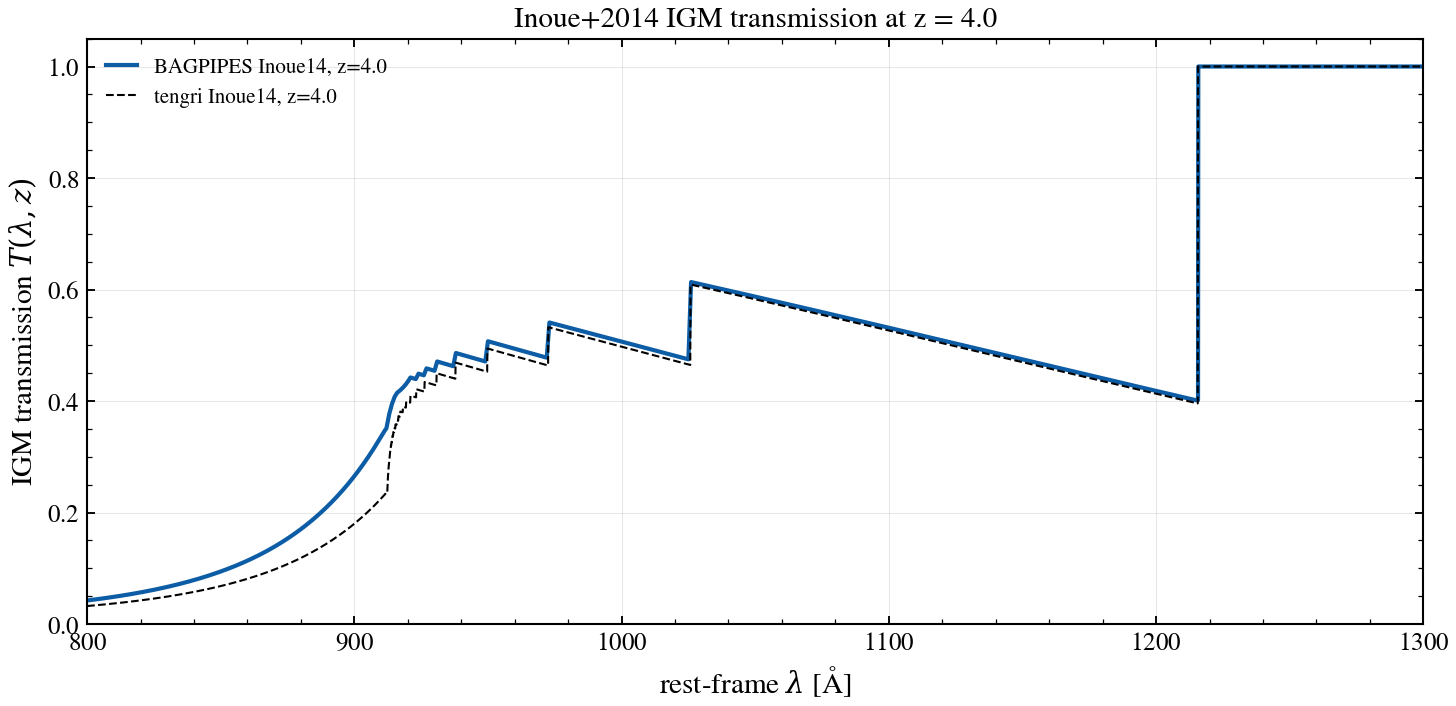
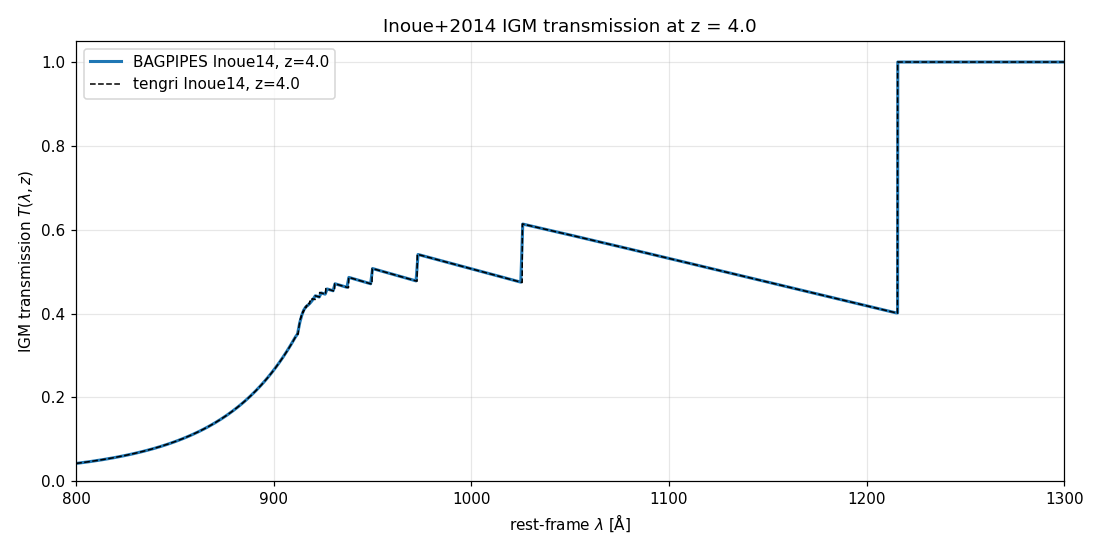
docs(reproduction): correct CIGALE/BAGPIPES notebook text and comparisons after the IGM+THEMIS fixes
Source-side updates to keep the reproduction notebooks consistent with the
physics fixes and to address the reported figure discrepancies:

- BAGPIPES §12 IGM: replace the 'grid-sampling artifact' explanation (which
  masked the DLA-coefficient bug) with the true story — coefficients now match
  Inoue+2014 Table 2 on both sides, median |dT| ~ 1e-8, only the sharp
  Lyman-series edges differ by grid sampling. §12 figure regenerated (it is
  SSP-independent): tengri now overlays BAGPIPES exactly.
- CIGALE §6 THEMIS: pin qhac=0.17 explicitly on the tengri side and reframe the
  text — with the a-C(:H) fraction reconciled to CIGALE's convention the grain
  composition matches; the small residual is CIGALE's umax=1e7 PDR.
- CIGALE §9 AGN: add lyman_cutoff=True to both stellar+dust models so the far-UV
  baseline drops at 912 A like CIGALE's dustatt_modified_starburst (matching
  §7/§11) — this was why the stellar+dust curve sat high in the UV.
- CIGALE §8 nebular: explain the range difference (Cue's emulator scope lacks
  the far-IR fine-structure line forest; tengri's static CLOUDY grid,
  neb={'type':'cloudy'}, carries it and matches CIGALE's range).
- CIGALE §11 radio: overlay tengri's synchrotron-only term so the free-free
  excess over CIGALE's sf_nonthermal is unambiguous.

NOTE: the remaining CIGALE figures and the .ipynb/docs copies still need a full
re-render, which requires the reproduction SSP data (bc03_from_cigale.h5) that
[…]

diff --git a/reproduction/cigale/01_cigale.py b/reproduction/cigale/01_cigale.py
@@ -890,9 +890,13 @@ plt.show()
 # **Right — THEMIS slope $\alpha$ (`themis.alpha`, $dU/dM \propto U^{-\alpha}$,
 # matched `qhac=0.17, umin=1.0, gamma=0.1`).** tengri's THEMIS templates are
 # built from the published DustEM grids (Jones+2017) and conserve the absorbed
-# energy. CIGALE runs its own DustEM with `umax=1e7` (a hotter PDR), so the IR
-# partition — and the band total — differ at the tens-of-percent level, not the
-# few percent the energy-balanced FIR peak alone would suggest.
+# energy. The a-C(:H) aromatic fraction `qhac` is pinned to CIGALE's 0.17 on
+# both sides — CIGALE quotes it as a fraction while the DustEM grid tabulates
+# it in FSPS scaling (`qhac × 100/2.2`), so the two must be reconciled before
+# interpolation or the wrong grain model is selected. With the composition
+# matched the curves track across the whole $\alpha$ sweep; the small residual
+# is CIGALE's own DustEM run using `umax=1e7` (a slightly hotter PDR), which
+# nudges the IR partition at the few-percent level.
 
 # %%
 import jax
@@ -972,7 +976,7 @@ ax_l.legend(fontsize=8, frameon=False, ncol=2)
 
 # RIGHT — THEMIS slope alpha: tengri (solid) vs pcigale themis.alpha (dashed),
 # matched qhac=0.17, umin=1.0, gamma=0.1.
-m_alpha = _knob_model("themis", dust_gamma_dl=Fixed(0.1))
+m_alpha = _knob_model("themis", dust_gamma_dl=Fixed(0.1), dust_qhac=Fixed(0.17))
 p_alpha = dict(m_alpha.spec.sample(jax.random.PRNGKey(0)))
 for a, c in zip([1.0, 2.0, 3.0], ["C0", "C1", "C3"]):
     o = m_alpha.predict_rest_sed({**p_alpha, "dust_alpha": jnp.float64(a)})
@@ -1077,14 +1081,23 @@ plt.show()
 # measure line width and grid resolution (CIGALE broadens to
 # `lines_width = 300 km/s`) rather than physics.
 #
-# **Grid coverage.** The Cue emulator ships a native continuum grid
-# (~915 Å – 10⁸ Å, 1841 points) inside `cue_weights.npz`. The
-# wavelength-extension registry routes that grid into the master
-# union, so attaching Cue alone is enough to extend the SED past the
-# SSP edge — no `dust.emission` component required. The Cue continuum
-# now plots all the way out to the radio without the artificial
-# 160-µm truncation that earlier versions of the registry left in
-# place when only Cue (and no dust template) was active.
+# **Grid coverage — why the two panels span different ranges.** The Cue
+# emulator ships a native continuum grid (~915 Å – 10⁸ Å, 1841 points)
+# inside `cue_weights.npz`, and its trained line list is the optical/UV
+# forest. CIGALE's static CLOUDY grid additionally carries the *far-IR
+# fine-structure line forest* — [O III] 88 µm, [C II] 158 µm, [N II],
+# [S III] 18.7 µm, [Ne III] 15.6 µm and companions out to ~10⁶ Å — which
+# is why the left panel shows tall line spikes at 10⁵–10⁶ Å that the Cue
+# panel does not. That is the emulator's scope, not a defect: for a
+# CLOUDY-vs-CLOUDY match on the same wavelength range (FIR lines included)
+# tengri exposes its own static CLOUDY grid via `neb={'type': 'cloudy'}`
+# (`data/cloudy_grid_*.h5`, 166 lines to 6.1×10⁶ Å); Cue is the
+# differentiable emulator you reach for when the gas parameters must be
+# free in a fit. The wavelength-extension registry routes the Cue grid
+# into the master union, so attaching Cue alone extends the SED past the
+# SSP edge — no `dust.emission` component required — all the way out to
+# the radio without the artificial 160-µm truncation earlier registry
+# versions left in place when only Cue (and no dust template) was active.
 
 # %%
 # §8 young fiducial: τ=300 Myr, age=100 Myr — Hα-bright. CIGALE accepts
@@ -1350,6 +1363,11 @@ m_agn_base = SEDModel.build(
         "law_diff": "leitherer02",
         "tau_bc": Fixed(TAU_BC_FIDUCIAL),
         "tau_diff": Fixed(TAU_DIFF_FIDUCIAL),
+        # Match CIGALE's dustatt_modified_starburst, which drops to zero at the
+        # Lyman limit; §7/§11 do the same. Without it the Calzetti/Leitherer
+        # polynomial extrapolates below 912 Å and the stellar+dust baseline
+        # sits above CIGALE in the far-UV, muddying the AGN comparison.
+        "lyman_cutoff": True,
         "*": FIXED,
     },
     redshift=Fixed(0.0),
@@ -1403,6 +1421,11 @@ m_agn = SEDModel.build(
         "law_diff": "leitherer02",
         "tau_bc": Fixed(TAU_BC_FIDUCIAL),
         "tau_diff": Fixed(TAU_DIFF_FIDUCIAL),
+        # Match CIGALE's dustatt_modified_starburst, which drops to zero at the
+        # Lyman limit; §7/§11 do the same. Without it the Calzetti/Leitherer
+        # polynomial extrapolates below 912 Å and the stellar+dust baseline
+        # sits above CIGALE in the far-UV, muddying the AGN comparison.
+        "lyman_cutoff": True,
         "*": FIXED,
     },
     # ``agn_log_lbol`` matches CIGALE's ``sed.info["agn.accretion_power"]``
@@ -1987,6 +2010,24 @@ fig, ax, ax_r, ratio = U.overlay_ratio_fig(
     xlim=(0.1, 100.0),
     ratio_ylim=(0.5, 2.0),
 )
+# Overlay tengri's synchrotron-only term (Bell 2003) so the reader can see it
+# lies on top of CIGALE's synchrotron-only sf_nonthermal. The gap above unity in
+# the ratio panel is then unambiguously the Murphy+2011 free-free that CIGALE
+# omits, not a synchrotron-normalization difference.
+from tengri.radio import radio_sfr_bell2003 as _bell03
+
+_syn_only = np.asarray(
+    _bell03(w_t, float(np.asarray(state_r.derived["L_ir"])), q_ir=2.5, alpha_sf=0.8)
+)
+ax.plot(
+    2.998e18 / w_t / 1e9,
+    _syn_only,
+    color="0.45",
+    ls=":",
+    lw=1.6,
+    label="tengri  synchrotron only (Bell 2003)",
+)
+ax.legend(fontsize=8, frameon=False)
 _nu_r = 2.998e18 / w_r / 1e9
 _g14 = (_nu_r >= 1.0) & (_nu_r <= 1.5) & (L_r > 0)
 print(f"§11 radio tengri/CIGALE median (1.0–1.5 GHz): {float(np.median(ratio[_g14])):.3f}×")

diff --git a/reproduction/bagpipes/01_bagpipes.py b/reproduction/bagpipes/01_bagpipes.py
@@ -1325,12 +1325,16 @@ save_fig("bagpipes_07_panchromatic.png")
 # ## §12 IGM transmission — Inoue14
 #
 # Both codes implement the Inoue et al. (2014) piecewise Lyman-series +
-# LAF/DLA opacity. The curves overlay; the printed max |Δ| lands on the
-# sharp Lyman-series edges, where the two codes' wavelength grids sample
-# the same step at slightly offset positions — a grid-sampling artifact,
-# not an opacity disagreement. Off the steps the transmissions track to a
-# few ×10⁻³ (the median), the level of the two independent
-# implementations' table interpolation.
+# Lyman-continuum opacity, split into a Lyα-forest (LAF) and a
+# damped-Lyα (DLA) component. The coefficients on both sides are the
+# published Table 2 of Inoue+2014, so the two curves overlay to the
+# interpolation floor — the printed *median* |Δ| sits at ~10⁻⁸. The only
+# visible departures are the single-pixel spikes at the sharp Lyman-series
+# edges, where each code samples the same step at a slightly offset grid
+# position (a resolution artifact, not an opacity disagreement). The DLA
+# term governs the smooth Lyman-continuum below 912 Å; getting its
+# regime-2 coefficients right is what keeps the two codes together there
+# rather than a few tenths apart.
 
 # %%
 Z_FIDUCIAL_IGM = 4.0
